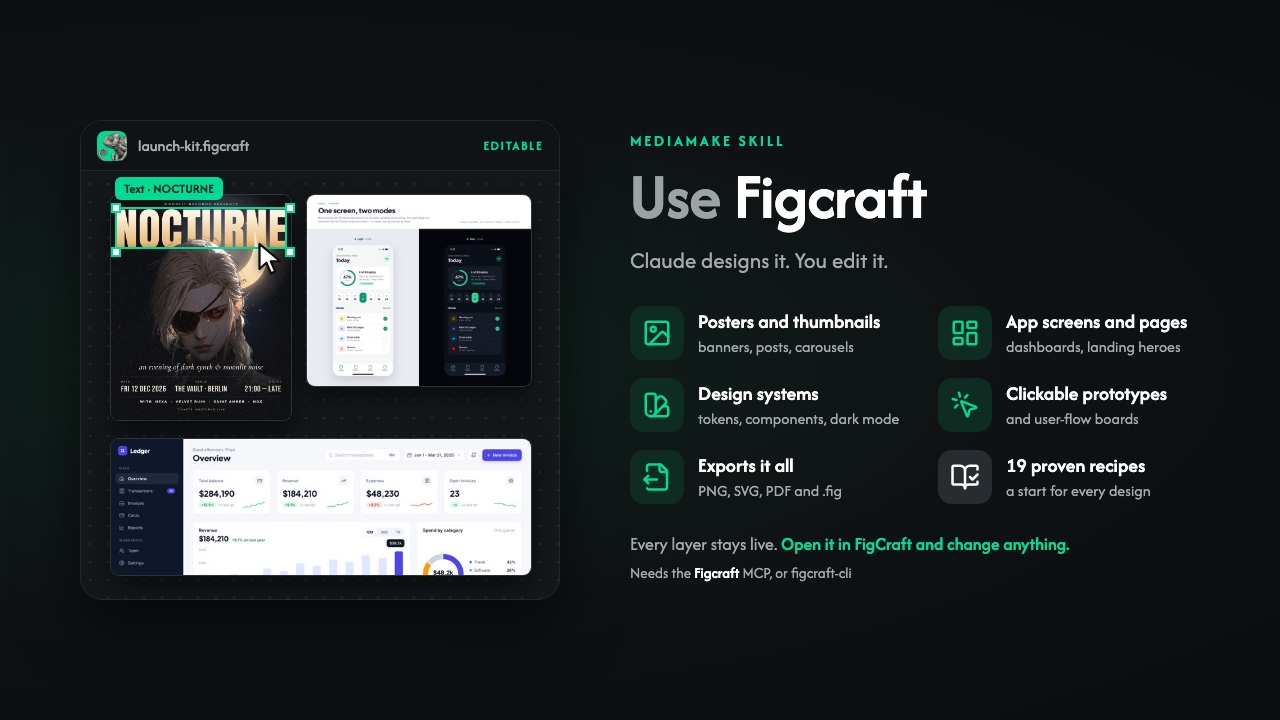
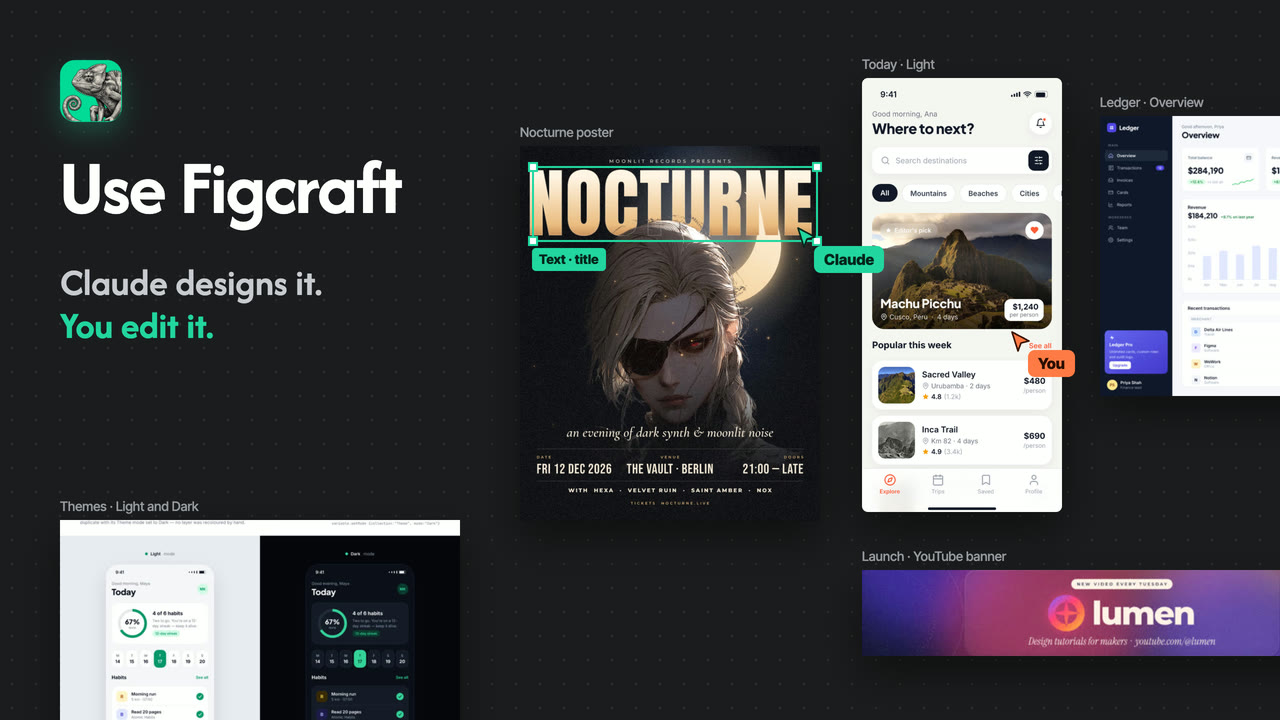
skills: store listings for create-thumbnail and revise-video, a new use-figcraft headshot
create-thumbnail and revise-video get a README in the item-readme format
(shared use; revise-video is internal) with a headshot of their own and real
example outputs. use-figcraft's headshot is redrawn: Claude's cursor and
yours on one Figcraft canvas, with less text.

diff --git a/.agents/skills/revise-video/README.md b/.agents/skills/revise-video/README.md
@@ -1,0 +1,54 @@
+---
+description: The review loop for every MediaMake video. Claude renders 10-second previews around what changed, checks each one for black frames, freezes and silence, and gives you a Video Revision link. You leave notes on the frames; Claude fixes each one in the project and answers it.
+tags: video, review, revise, comments, feedback, remotion, render
+headshot: headshot.jpg
+nature: shared-use
+type: internal
+---
+
+# Revise video
+
+You watch, Claude fixes. After a render, Claude gives you a link to the Video Revision screen. Leave
+your notes right on the frames, mark the revision ready, and Claude reads every note, fixes it in the
+project, answers it and sends you the next preview. Previews are 10-second stretches around what
+changed, so a round takes minutes, and the full video renders once, when you sign off.
+
+## How to use
+
+1. Copy the install prompt and paste it into Claude. It works with MediaMake's video skills: they hand
+   their renders to it.
+2. Open the link Claude gives you after a render, in Chrome, Edge or another Chromium browser. The first
+   time, link your workspace's `out` folder as a source; every later link opens straight from it.
+3. Leave your notes. Pause and say what should change on that frame, and draw on it if that helps
+   (red fix, green add, yellow move). Select a stretch on the timeline for a note on a range, or press
+   **G** for a note on the whole video.
+4. Set the revision to **Ready for Claude**. Claude picks it up by itself while the session is open;
+   otherwise say **rev-002 is ready**.
+5. Watch the preview it sends back, and go again. When it's right, say **render it**: the master
+   renders once.
+
+Not rendered yet? Claude can give you a live link (`/video-revision?live=<project>`) that plays the
+project straight from its code, so a first look costs no render at all.
+
+## What it uses
+
+- [[app/remotion-revision|Video Revision]] (required): the screen where you watch and leave notes. It
+  reads the video from your computer; nothing is uploaded.
+- MediaMake's studio on your computer (`mm render`, `mm preflight`, `mm wait-revision`): it renders the
+  previews and the master, checks every render before you see it, and waits for your revision.
+- [[app/remotion-editor|Remotion Editor]] (optional): **Tweak it yourself** opens a live project there
+  for small changes you'd rather make by hand.
+- The skills it reviews for: [[make-lyrics-video]], [[make-video-music-remix]],
+  [[make-waveform-lyric-video]] and their variants.
+
+## What the skill outputs
+
+Every note answered. Beside the video, `out/<slug>/<slug>.revisions/` holds each revision
+(`rev-001.json` and `rev-001.md`, with a still for every note on a frame), each note marked done with
+what changed. With it come the preview of the fixes, checked before you see it, and the master once
+you sign off. Two notes from a real review of a Doomcat episode, before and after:
+
+![Before: "the text is not visible, the camera angle should be higher"](shots/camera-before.jpg)
+![After: the camera looks down from higher, so every plaque reads](shots/camera-after.jpg)
+![Before: "lets change it to something else, it looks haunting"](shots/sponsor-before.jpg)
+![After: a bright pet-shop window instead of the dark spotlight](shots/sponsor-after.jpg)

diff --git a/.agents/skills/create-thumbnail/README.md b/.agents/skills/create-thumbnail/README.md
@@ -1,0 +1,54 @@
+---
+description: YouTube thumbnails for any kind of channel, built from real pictures. A board of 6–8 different ideas first, checked at feed size beside real hits of the kind, then three variants of each idea you pick, every one tagged with an ID so you choose one final or three for YouTube's A/B test.
+tags: thumbnails, youtube, design, a-b-test, figcraft, remotion, midjourney, brand-kit
+headshot: headshot.jpg
+nature: shared-use
+---
+
+# Create thumbnail
+
+Thumbnails people click, for any kind of channel: tech reviews, tutorials, documentaries, podcasts,
+gaming, cooking, news, music and edits. Claude reads what the video is about, what kind of video it is
+and whose channel it is on, works from what that kind's hit thumbnails share, and shows you a board of
+genuinely different ideas before it makes anything final.
+
+![A concept board: six different ideas for one video, each with its ID](shots/concept-board.jpg)
+
+## How to use
+
+1. Copy the install prompt and paste it into Claude. Install the Browse Hack MCP with it, and the
+   Figcraft MCP if you want to edit the final yourself.
+2. Say to Claude: **make a thumbnail for this video**, with its title and what it is about. Add your
+   picture, a frame or a YouTube link, and the transcript if you have one.
+3. Answer its few questions: which channel's logo goes on it, whether the title must be on it word for
+   word, and the fonts you want.
+4. Look at the board in the chat. Every thumbnail carries its ID at its top-right corner, so reply with
+   the ones you like (**B and D**) and your notes by ID (**B2, but with the A1 font**).
+5. Pick **one final**, or **three** for an A/B test in YouTube Studio (Test & Compare).
+6. Want to change something yourself? Say **let me edit it**. The pick opens in FigCraft as layers,
+   every headline as live text. Save with ⌘S, then say **bring it back**.
+
+## What it uses
+
+- [[mcp/browse-hack]] (recommended): frames from a YouTube link, and Midjourney concepts and outcrops
+  in your Chrome. Without it, it works from your own pictures, Wikimedia Commons and page screenshots.
+- [[mcp/figcraft]] (optional): rebuilds the pick as editable layers for your own final edit;
+  [[use-figcraft]] has its rules. Without it, every change goes through Claude and a re-render.
+- [[mcp/fal]] (optional, paid): generated concept art when Midjourney isn't wanted. It asks before
+  spending anything.
+- [[pack-brand-kit]]: a channel's thumbnail profile (its logos, fonts, colours, rules and mascot), when
+  the channel has a kit.
+- [[midjourney-outcrop]] and [[midjourney-style-reference]]: a picture widened to 16:9, or concepts in a
+  look you name.
+- [[write-youtube-metadata]]: a title for each thumbnail when you pick three for an A/B test.
+
+## What the skill outputs
+
+Your finals, 1280×720 JPEGs under YouTube's 2 MB limit, in your workspace's
+`out/thumbnails/<job>/final/`, with the board and every variant beside them (`sheet.jpg`), and the
+`.figcraft` file when you edited one by hand. Finals made with it:
+
+![Doomcat, a news show: H3](shots/doomcat-ep3-H3.jpg)
+![Cook with Claude, a tutorial series: B1](shots/cook-with-claude-ep1-B1.jpg)
+![WAKE UP, a song: E1](shots/wake-up-E1.jpg)
+![Postcards from Tomorrow, a song: A2](shots/postcards-from-tomorrow-A2.jpg)
